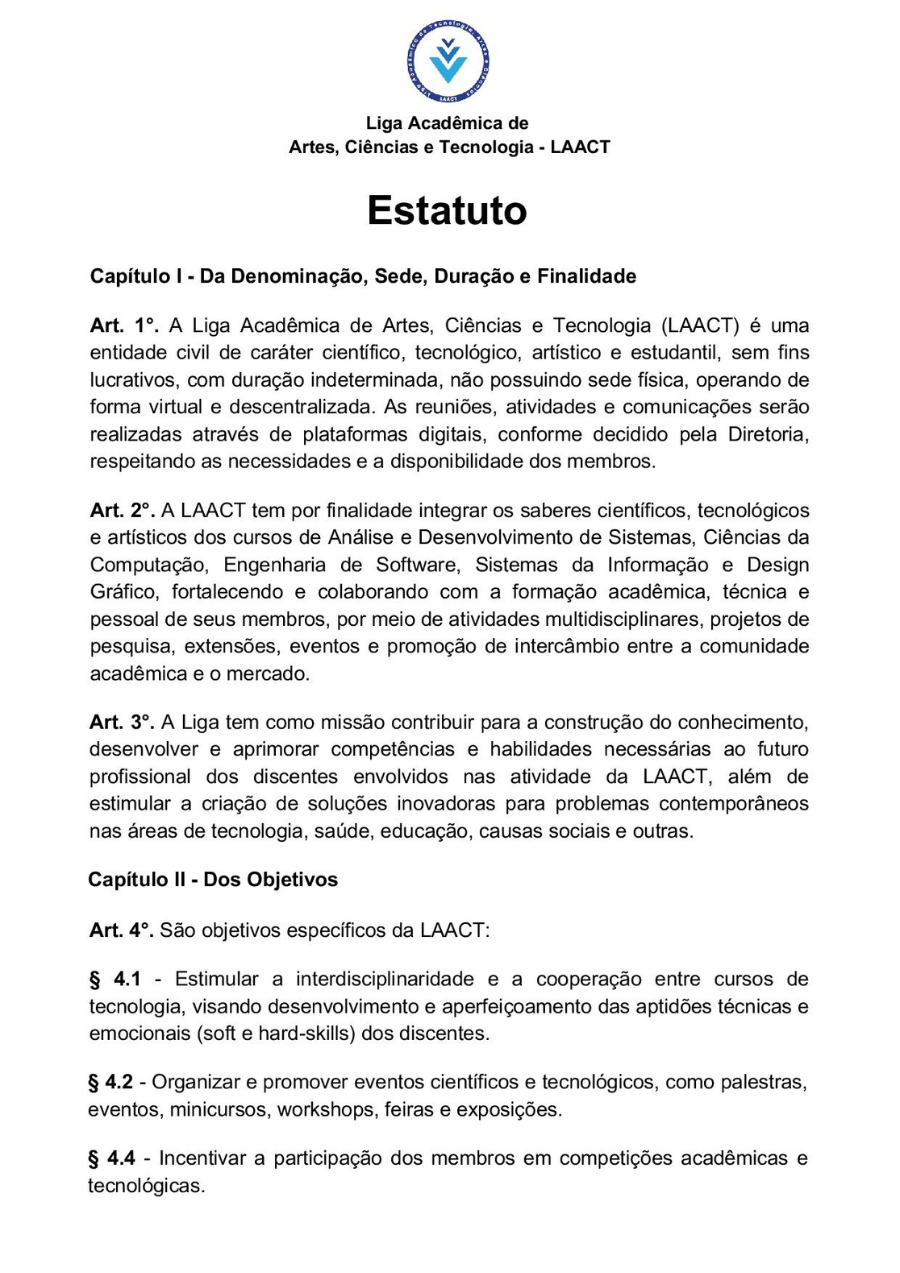
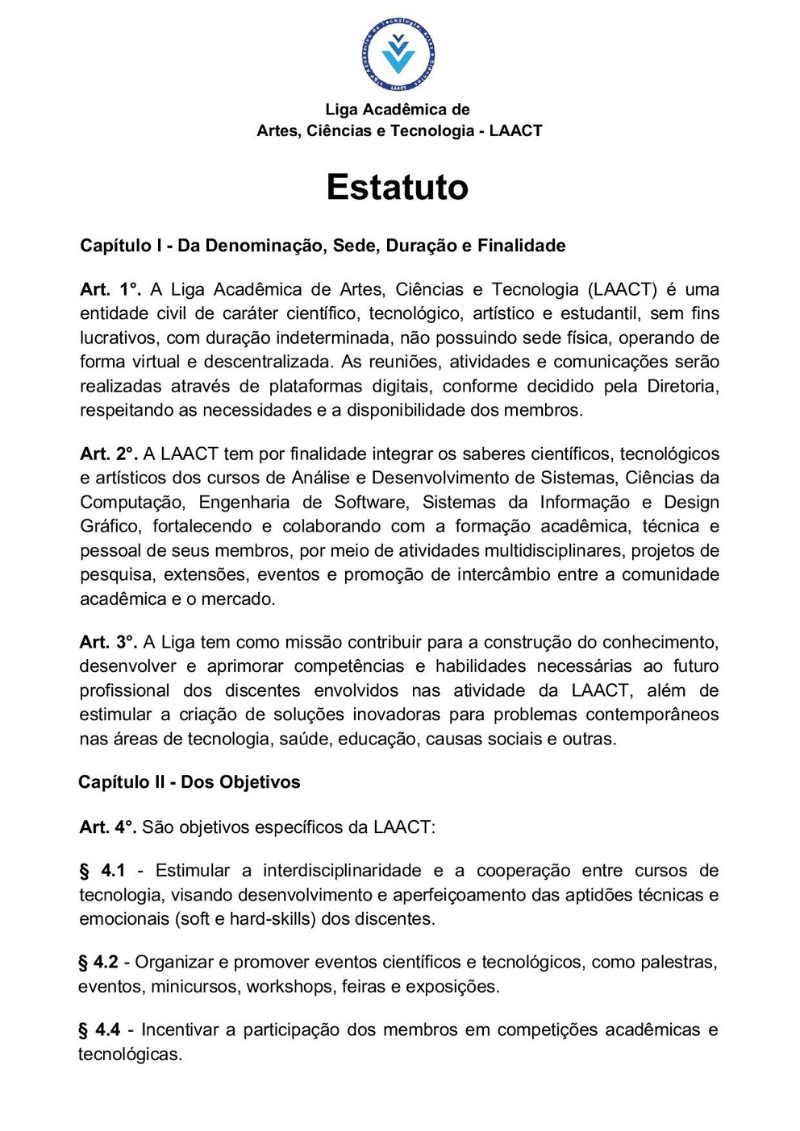
v1.7.1 mudança no formato das imagens do estatuto na página documentos

diff --git a/documentos.html b/documentos.html
@@ -120,7 +120,7 @@
 
           </div>
 
-          <div class="col-lg-8">
+          <div class="col-lg-8 ps-lg-5">
             <div class="portfolio-details-slider swiper">
 
               <script type="application/json" class="swiper-config">
@@ -142,31 +142,31 @@
               <div class="swiper-wrapper align-items-center">
 
                 <div class="swiper-slide">
-                  <img src="assets/img/documentacao/estatuto1.png" alt="">
+                  <img style="width: 100%;" src="assets/img/documentacao/estatuto1.png" alt="">
                 </div>
 
                 <div class="swiper-slide">
-                  <img src="assets/img/documentacao/estatuto2.png" alt="">
+                  <img style="width: 100%;" class="details-img" src="assets/img/documentacao/estatuto2.png" alt="">
                 </div>
 
                 <div class="swiper-slide">
-                  <img src="assets/img/documentacao/estatuto3.png" alt="">
+                  <img style="width: 100%;" class="details-img" src="assets/img/documentacao/estatuto3.png" alt="">
                 </div>
 
                 <div class="swiper-slide">
-                  <img src="assets/img/documentacao/estatuto4.png" alt="">
+                  <img style="width: 100%;" class="details-img" src="assets/img/documentacao/estatuto4.png" alt="">
                 </div>
 
                 <div class="swiper-slide">
-                  <img src="assets/img/documentacao/estatuto5.png" alt="">
+                  <img style="width: 100%;" class="details-img" src="assets/img/documentacao/estatuto5.png" alt="">
                 </div>
 
                 <div class="swiper-slide">
-                  <img src="assets/img/documentacao/estatuto6.png" alt="">
+                  <img style="width: 100%;" class="details-img" src="assets/img/documentacao/estatuto6.png" alt="">
                 </div>
 
                 <div class="swiper-slide">
-                  <img src="assets/img/documentacao/estatuto7.png" alt="">
+                  <img style="width: 100%;" class="details-img" src="assets/img/documentacao/estatuto7.png" alt="">
                 </div>
 
               </div>

diff --git a/assets/css/main.css b/assets/css/main.css
@@ -2377,6 +2377,7 @@ section,
 /*--------------------------------------------------------------
 # Portfolio Details Section
 --------------------------------------------------------------*/
+
 .portfolio-details .portfolio-details-slider img {
   width: 100%;
 }
